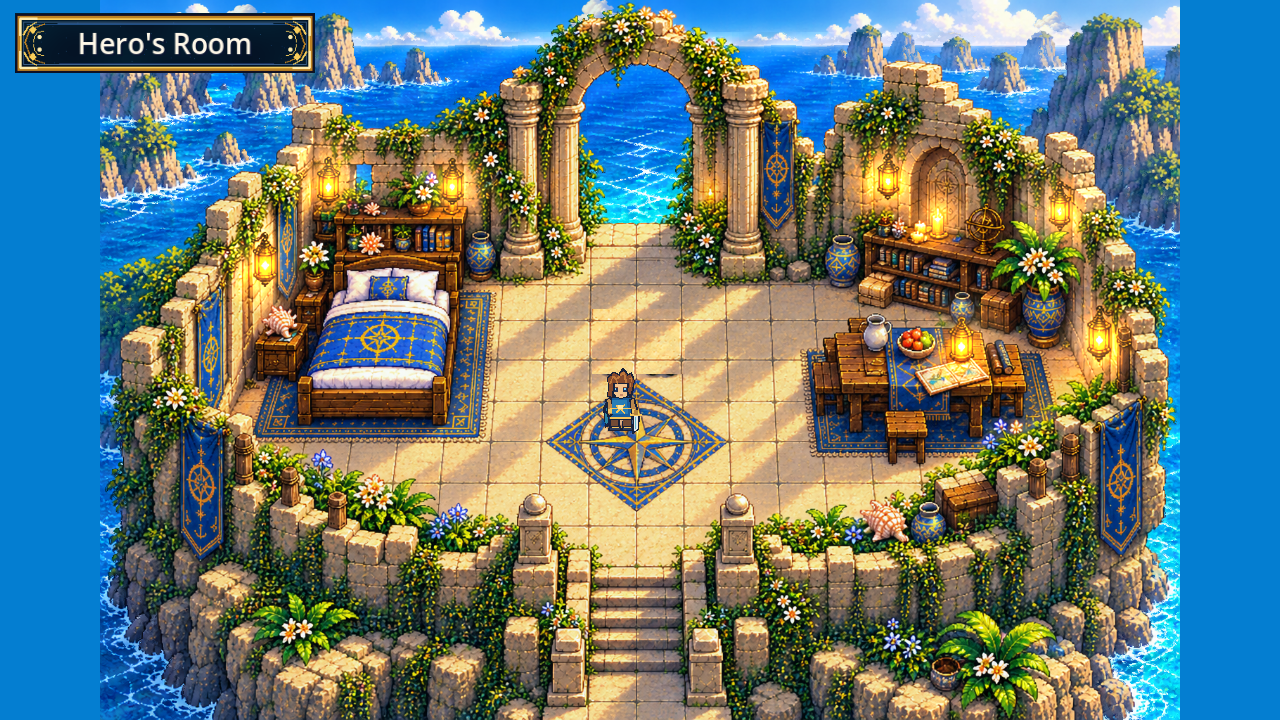
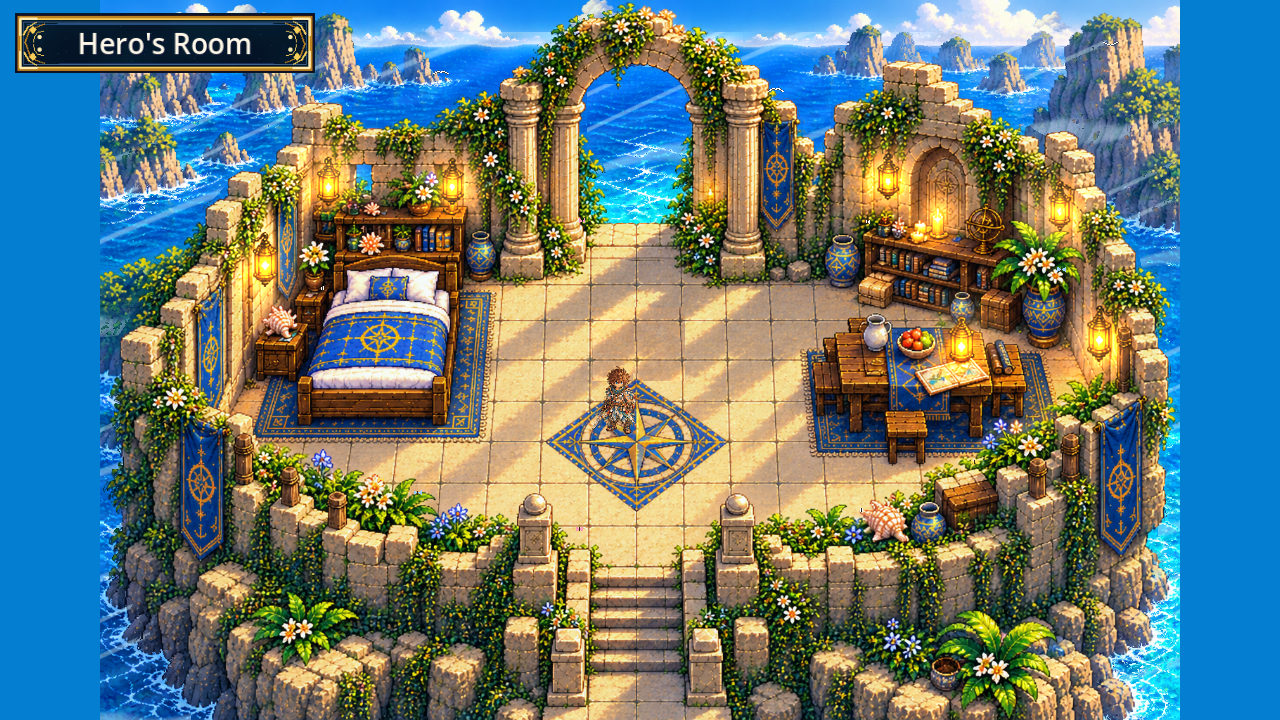
feat(room): factory hero, rolling waves, gulls and butterflies, cleaner floor cover (TASK-0168)
Flyers are code-drawn stand-ins; ART-0051 requests real sheets.

diff --git a/.agents/graphics/requests/ART-0051_hero_room_small_flying_creatures.md b/.agents/graphics/requests/ART-0051_hero_room_small_flying_creatures.md
@@ -1,0 +1,37 @@
+---
+id: ART-0051
+status: requested
+owner: graphics-specialist
+task: TASK-0168
+dedupe_key: hero_room_small_flying_creatures
+existing_asset_ids: none
+output_paths: .agents/graphics/deliveries/ART-0051/seagull_fly_sheet.png,.agents/graphics/deliveries/ART-0051/butterfly_fly_sheet.png
+---
+# Small flying creatures for the painted hero room
+
+**What is wrong today:** The owner wants small creatures flying around so the room feels alive. The game draws stand-ins by code: gulls are a white five-point line, butterflies are two flat triangles (`scenes/photo_room_life.gd`). They move correctly but are not art.
+
[1 lines of base64/hex data omitted]
+
+**Camera and light (same for every hero-room piece):** three-quarter top-down view, camera south of the room looking north and about 50 degrees down. Warm late-afternoon sun from the upper left.
+
+**Exact specification:**
+- `seagull_fly_sheet.png`: one seagull flying to the RIGHT, seen from the side and slightly above. 4 frames in one horizontal row, each frame 32x24 px: wings up, wings level, wings down, wings level. White body, light grey wing tops, dark wing tips, orange beak. The bird is about 26 px wide with wings level. The game flips it for flight to the left.
+- `butterfly_fly_sheet.png`: one butterfly seen from above. 4 frames in one horizontal row, each frame 16x16 px: wings fully open, half closed, nearly closed, half closed. Wings pure white to light grey only (the game tints them yellow, blue or pink), thin dark body. About 12 px wide with wings open.
+- Do NOT draw: shadows, background, motion trails, more than one creature per frame.
+
+**Output format:** one RGBA PNG sheet per output path, transparent background, frames on an exact grid with the creature centred in each frame. Native size as given (no 4x master needed for sprites this small; if a master is made, the native sheet must be a clean reduction). Manifest records frame size, frame count, suggested fps (gull 8, butterfly 12) and SHA-256 per file.
+
+## Request checklist
+- [x] Duplicate scan against asset IDs, active requests and previous deliveries (the catalog has no bird, butterfly or other small flyer).
+- [x] Style reference path and hash attached; no crop exists because the painting has no such creature.
+- [x] Specifications reviewed; marked `requested`.
+
+## Graphics specialist checklist
+- [ ] Clean PNG produced (ONLY graphics specialist); SHA-256 manifest written; mark `delivered`.
+
+## QA checklist
+- [ ] Independent visual review in Godot over the painted room; mark `reviewed`.
+
+## Integration checklist
+- [ ] `photo_room_life.gd` plays the sheets instead of the code shapes; PR merged; mark `integrated`.

diff --git a/.agents/tasks/TASK-0168_hero_room_from_painting.md b/.agents/tasks/TASK-0168_hero_room_from_painting.md
@@ -8,7 +8,7 @@ branch: claude/photo-backdrop-test
 depends_on: TASK-0167
 issue: none
 art_request: ART-0050
-touches: .agents/tasks/TASK-0168_hero_room_from_painting.md,.agents/graphics/requests/ART-0050_hero_room_painting_clean_plate.md,.agents/graphics/requests/reference_crops/ART-0050_painted_characters_target.png,scenes/main.gd,scenes/photo_room_life.gd,map_factory/photo_rooms/hero_room_01.json,tools/verify_main_equipment.gd,tools/capture_game_window.gd,docs/previews/map_factory_renders/photo_backdrop_test/photo_mode.png
+touches: .agents/tasks/TASK-0168_hero_room_from_painting.md,.agents/graphics/requests/ART-0050_hero_room_painting_clean_plate.md,.agents/graphics/requests/ART-0051_hero_room_small_flying_creatures.md,.agents/graphics/requests/reference_crops/ART-0050_painted_characters_target.png,scenes/main.gd,scenes/photo_room_life.gd,map_factory/photo_rooms/hero_room_01.json,tools/verify_main_equipment.gd,tools/capture_game_window.gd,docs/previews/map_factory_renders/photo_backdrop_test/photo_mode.png
 test: python tools/run_tests.py --changed
 done_when: F5 shows the hero room as the owner's target painting with the hero walking only on the painted floor and stairs; F3 switches to the Map Factory pieces and back; a headless test proves the painted bed, table and parapet are closed and the stairs are open.
 estimate_minutes: 150
@@ -23,6 +23,7 @@ Owner (2026-11-12): "lets try to create the room from the photo and do what we n
 
 Not done here:
 - Owner (2026-11-12, after the first test): only the real hero, no other characters, moving sea, clouds, a living room, painted figures removed. Done in `scenes/photo_room_life.gd` and the photo room file: `hero_only` hides NPCs and companion; blue sea pixels ripple inside sea polygons (shader); the map's cloud parts drift across the top; lanterns get a flickering glow; a floor piece of the same painting covers the painted hero and companion at run time.
+- Owner (2026-11-13): more waves, small creatures flying, hero from the character factory. Done: stronger ripple plus rolling wave crests in the sea shader; gulls and butterflies drawn by code as stand-ins (ART-0051 asks Codex for real sheets); `player.use_factory_art = true`, shown at painted-figure size with a smooth filter in the photo room; the floor cover now takes its piece from two tiles to the right so the light bands line up.
 - The cover is a stand-in: the painting file is untouched and ART-0050 still asks Codex for a clean painting.
 - Characters never pass behind painted furniture; the walk squares are cut so that this is not needed.
 - The side margins of the window are still flat blue.
